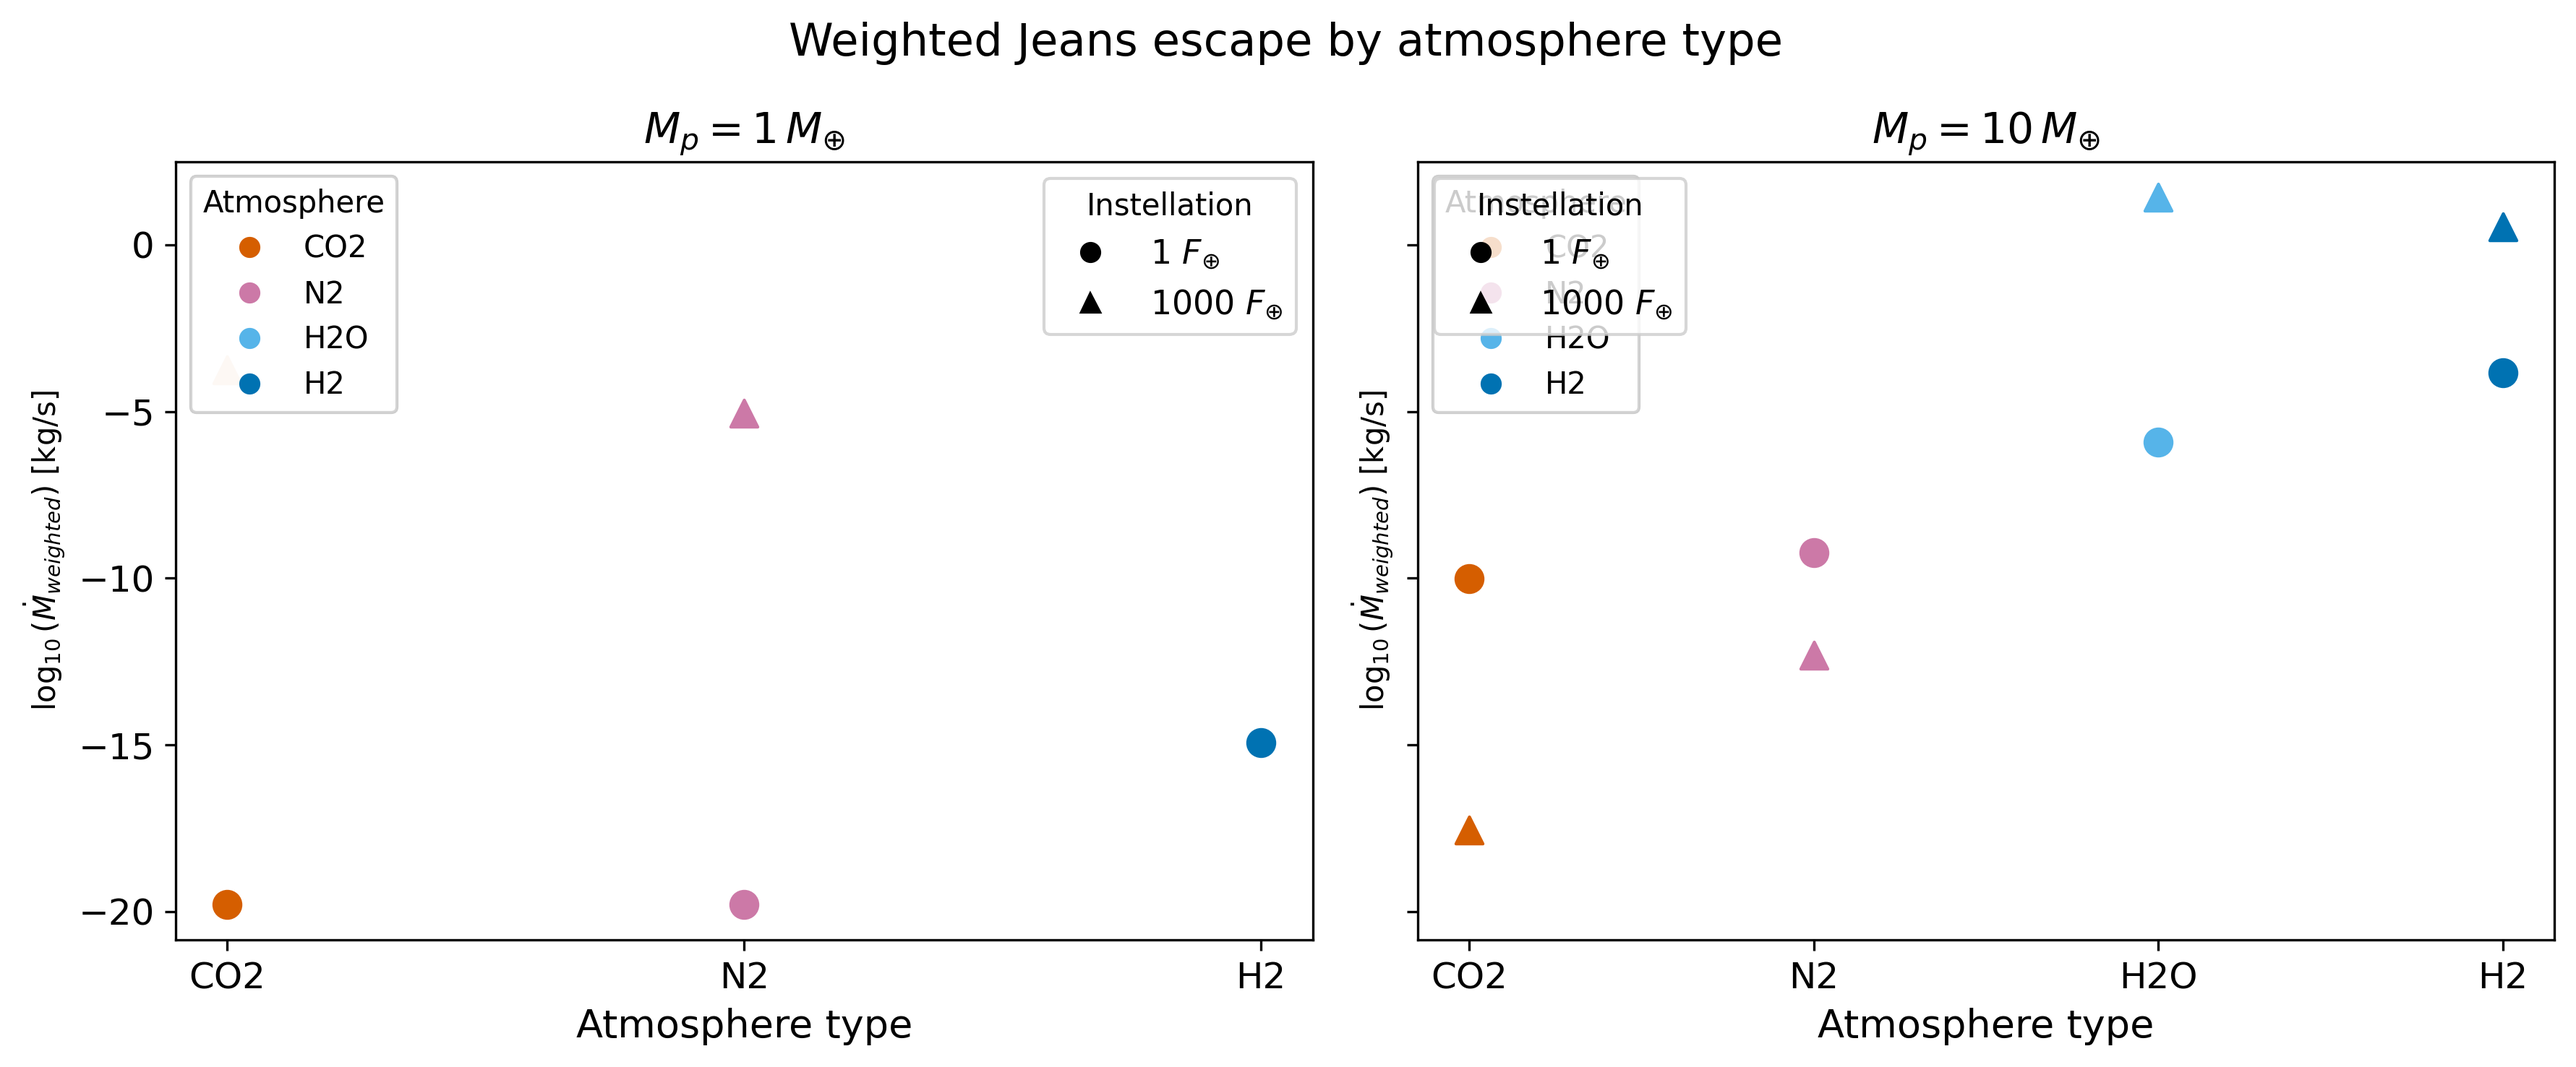
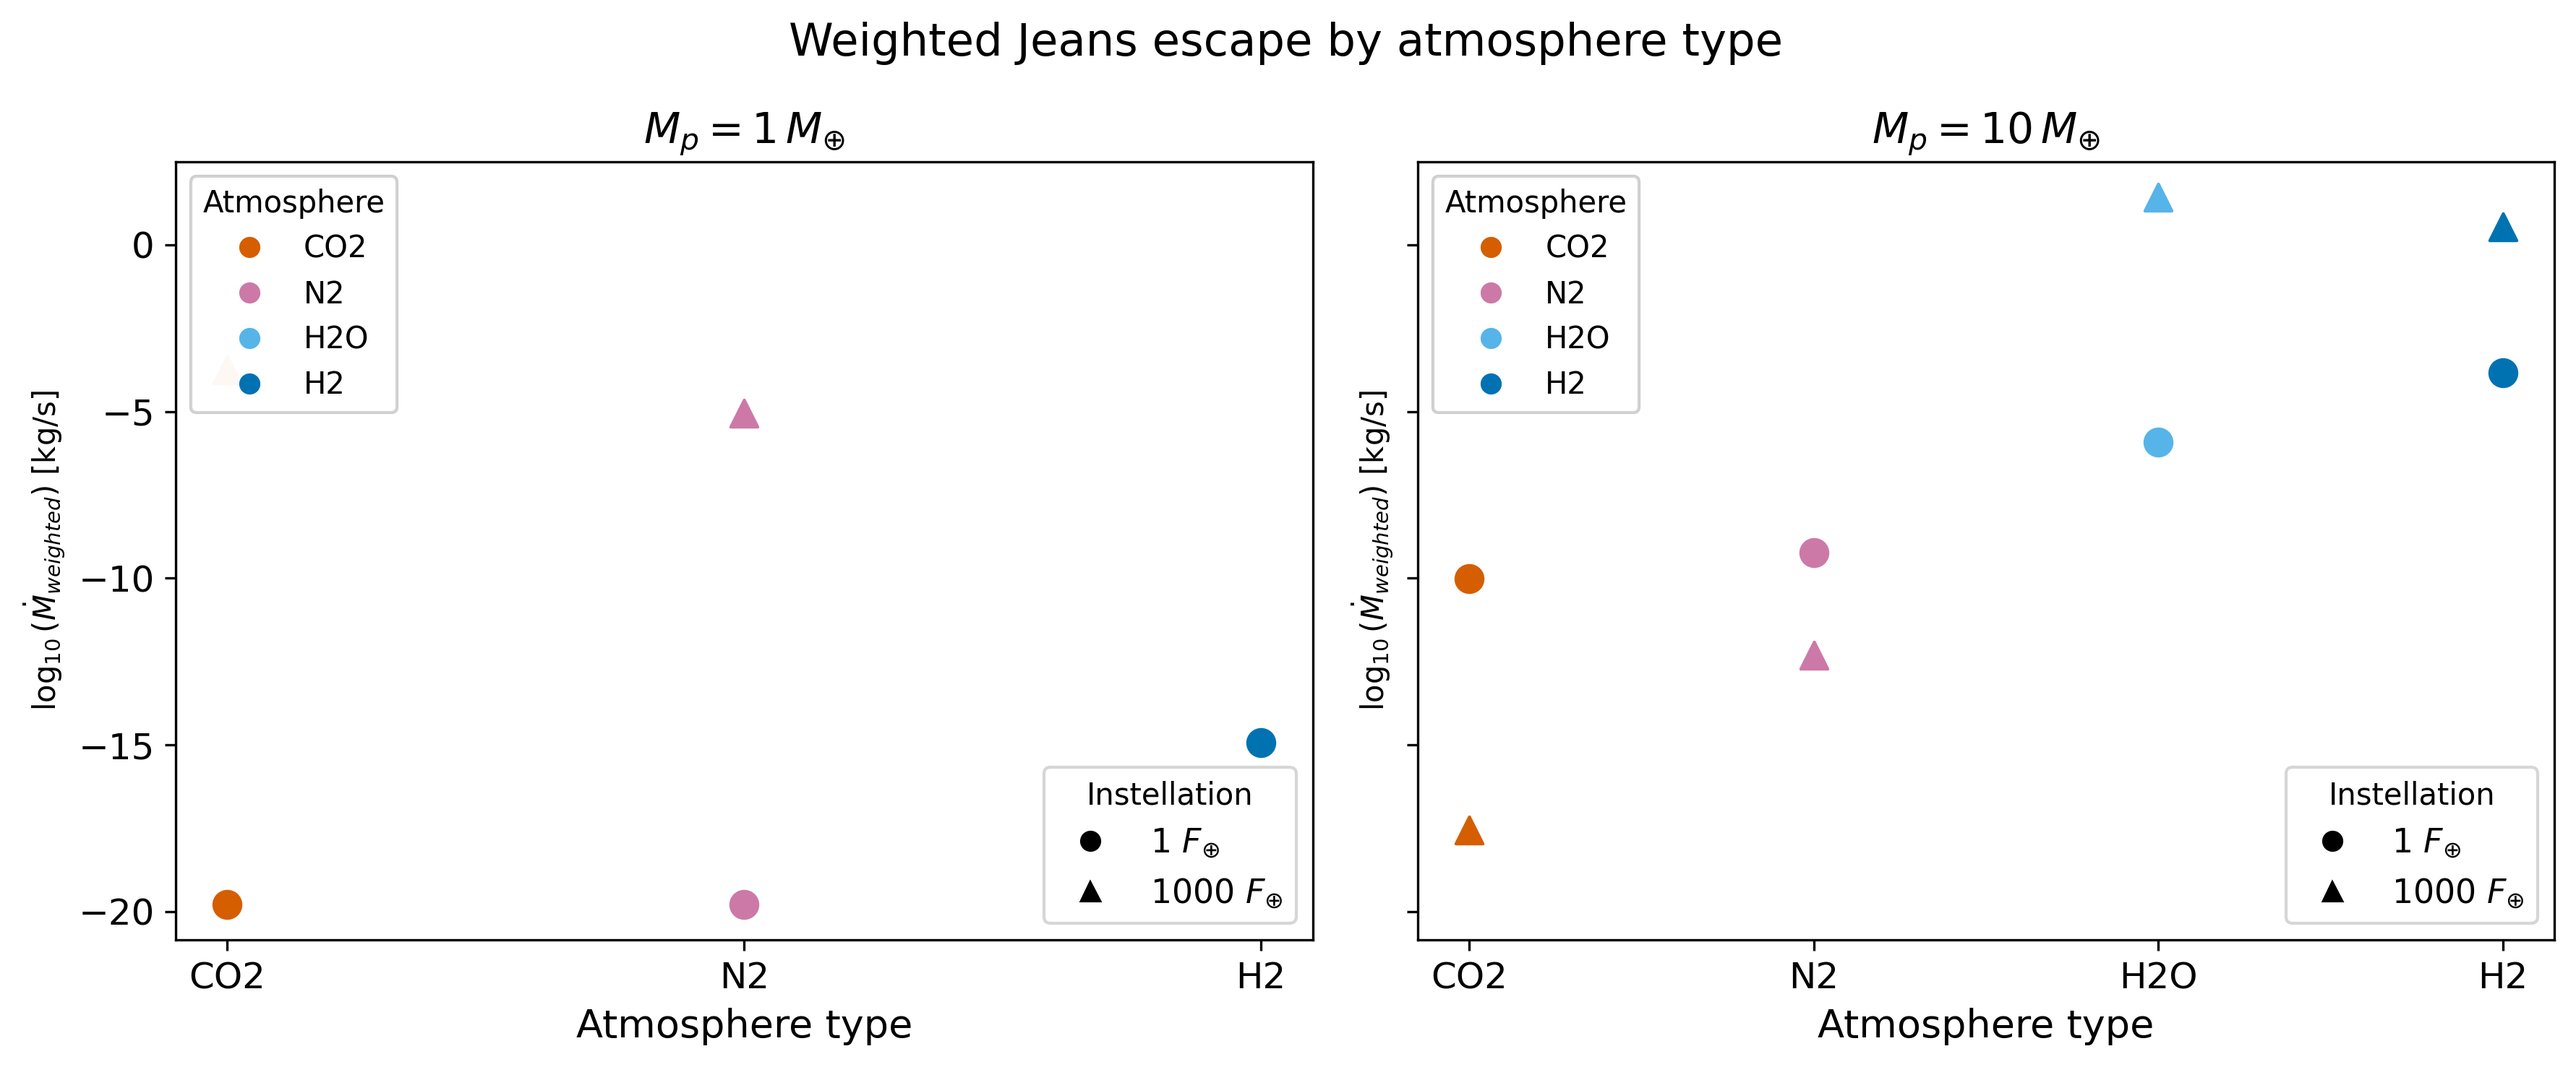
Added bates function

diff --git a/extend_profile.py b/extend_profile.py
@@ -7,6 +7,11 @@ from cross_section import effective_cross_section
 from physics import mean_mass
 
 
+def bates_extension(zeta, T_0, T_inf, beta = 0.75):
+    """extends using bates profile
+    T(zeta) = T0 + (T_inf - T0) * (1 - exp(-beta*zeta))"""
+    return T0 + (T_inf - T0) * (1.0 - np.exp(-beta * zeta))
+
 def extend_profile_exobase(
     r,
     T,
@@ -17,14 +22,13 @@ def extend_profile_exobase(
     n_extra=10,
     max_extra=1e9,
 ):
-    """extend profile upwards to exobase assuming hydrostatic equilibrium and isothermal extension, 
-    constant VMR from top of grid"""
+    """extend profile upwards to exobase using the Bates T profile"""
 
     r_current = r.copy()
     T_current = T.copy()
     species_current = {sp: n.copy() for sp, n in species.items()}
 
-    total_added = 0.0
+    
 
     while total_added < max_extra:
 

diff --git a/plotter.py b/plotter.py
@@ -97,8 +97,8 @@ for idx, mas in enumerate(mass):
     first_legend = axes[0].legend(handles=atm_handles, title="Atmosphere", loc="upper left")
     axes[0].add_artist(first_legend)
 
-    axes[1].legend(handles=flux_legend, title="Instellation", fontsize=11)
-    axes[0].legend(handles=flux_legend, title="Instellation", fontsize=11)
+    axes[1].legend(handles=flux_legend, title="Instellation", fontsize=11, loc="lower right")
+    axes[0].legend(handles=flux_legend, title="Instellation", fontsize=11, loc ="lower right")
 
 plt.suptitle("Weighted Jeans escape by atmosphere type", fontsize=15)
 plt.tight_layout()
